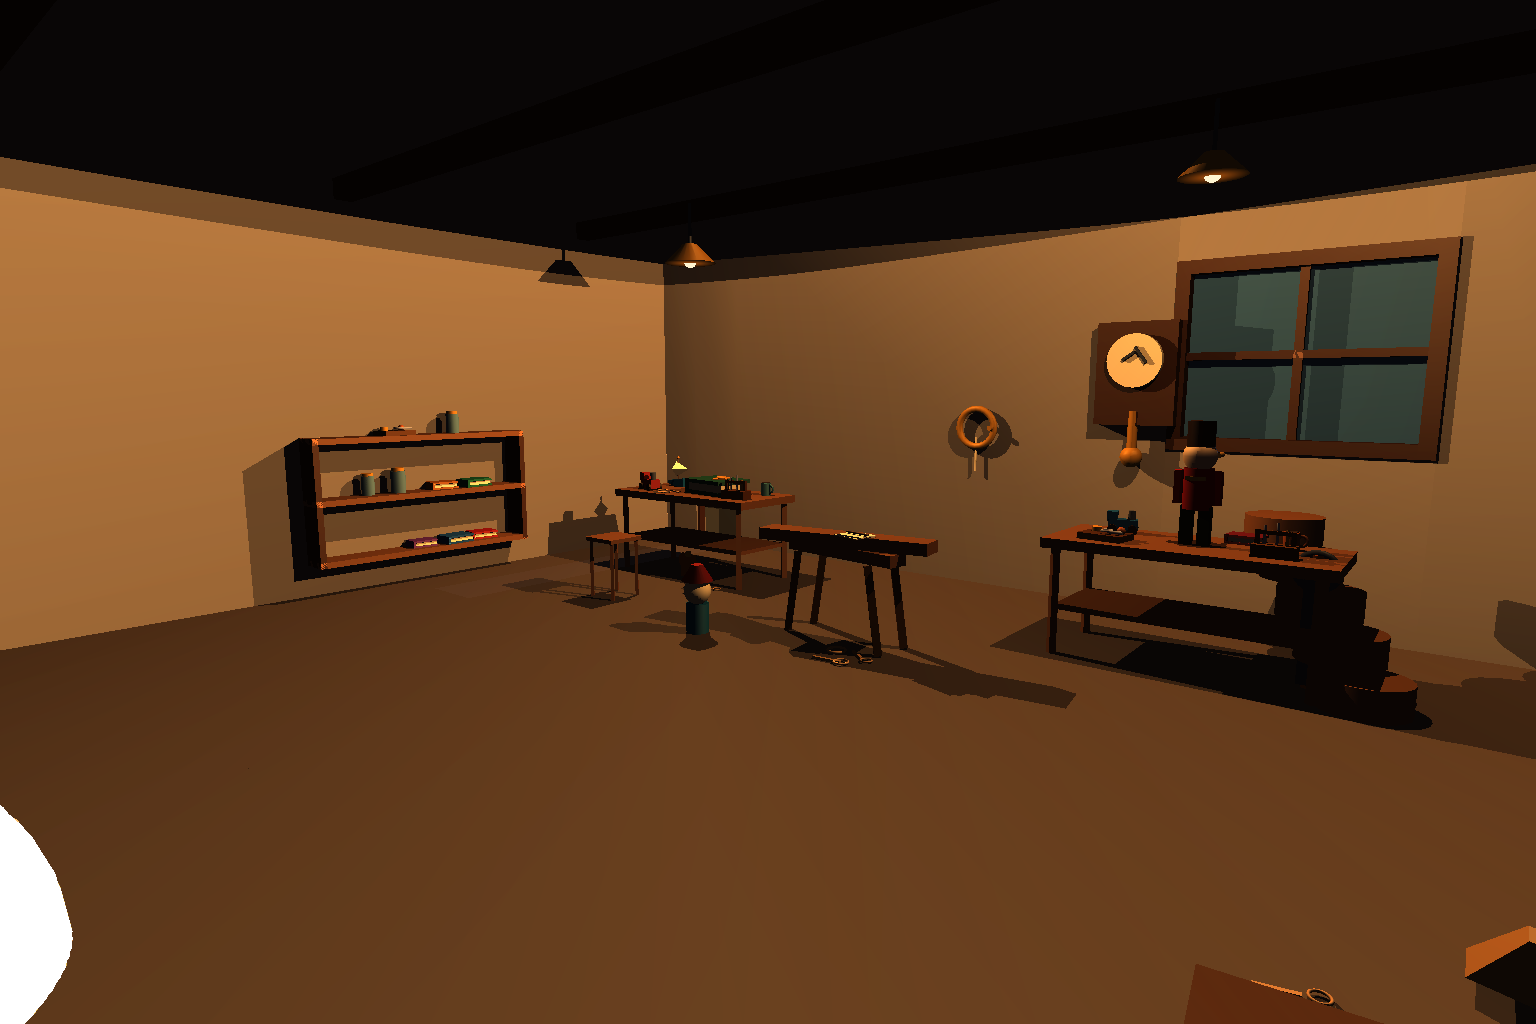
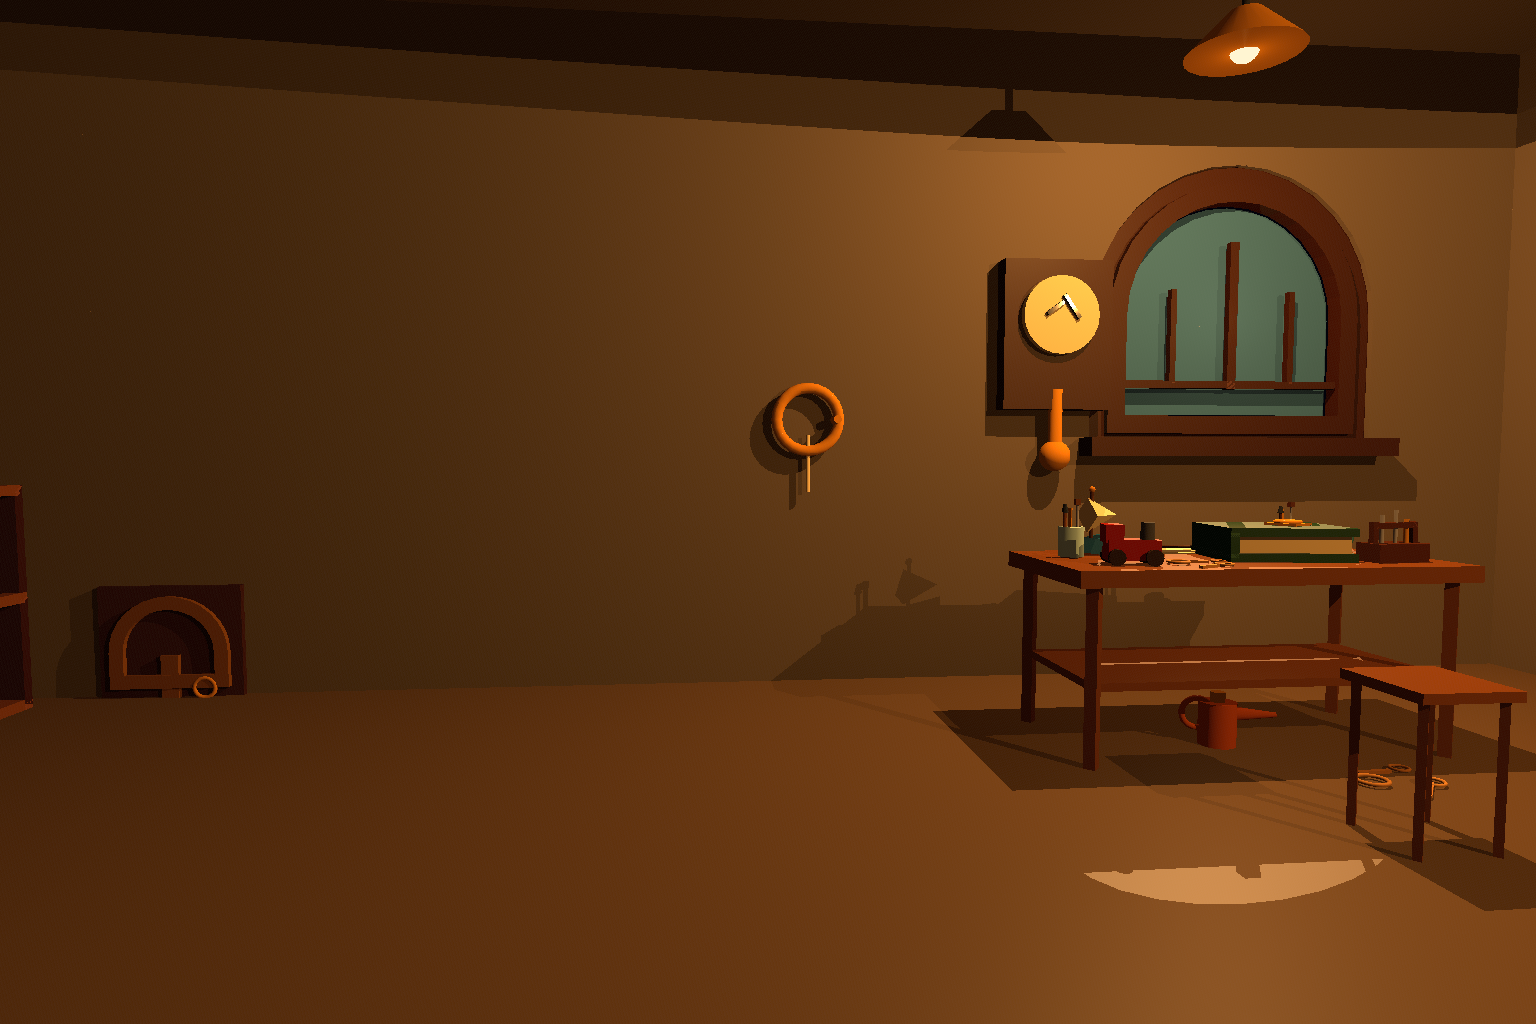
Redesign Wondertown opening presentation

diff --git a/samples/Book/Styles/Start.css b/samples/Book/Styles/Start.css
@@ -1,47 +1,39 @@
 .story-text {
   direction: vertical;
-  gap: 10px;
-  margin-left: 28px;
-  margin-top: 24px;
+  gap: 10;
+  margin-left: 32;
+  margin-top: 28;
 }
 
 .scene-description {
-  font-size: 18px;
+  font-size: 18;
   font-family: "Literata";
-  color: #20180f;
-  background-color: #d8d0bccc;
-  box-shadow: 1 2 12 2 #0b090780;
-  padding: 14px 18px;
-  width: 480px;
-  text-indent: 24px;
-}
-
-.scene-label {
-  font-size: 15px;
-  font-family: "Literata";
-  font-weight: bold;
-  color: #f6e8c8;
-  background-color: #211a13cc;
-  padding: 8px 12px;
+  color: #f4e6ca;
+  box-shadow: 1 2 0 0 #120b07e6;
+  line-height: 24;
+  width: 440;
 }
 
 .scene-option {
-  font-size: 18px;
+  font-size: 18;
   font-family: "Literata";
   font-weight: bold;
   color: #f8edcf;
-  background-color: #211a13e6;
-  box-shadow: 1 2 8 1 #00000080;
-  padding: 10px 14px;
+  box-shadow: 1 2 0 0 #090604f2;
+  padding: 6 0;
+}
+
+.scene-option:hover {
+  color: #fff8e8;
 }
 
 .scene-options {
   direction: vertical;
-  gap: 8px;
-  margin-right: 24px;
-  margin-bottom: 24px;
+  gap: 4;
+  margin-right: 32;
+  margin-bottom: 26;
 }
 
 .continue-option {
-  font-size: 22px;
+  font-size: 22;
 }

diff --git a/samples/Book/PROCESS.md b/samples/Book/PROCESS.md
@@ -228,6 +228,8 @@ match camera names exactly so a shot can be traced back to its XML declaration.
 Generated with the built-in image-generation path using
 `wondertown-cast-reference.png` as the identity reference:
 
+- `workshop-floor-establishing.png` — 3D-blockout-driven opening composition
+  with quiet plaster and floor fields reserved for box-free prose and choices;
 - `workshop-floor-initial-action.png` — missing-key reaction;
 - `action-climb-workbench.png` — upward physical action;
 - `action-take-oil-can.png` — object-interaction close-up;
